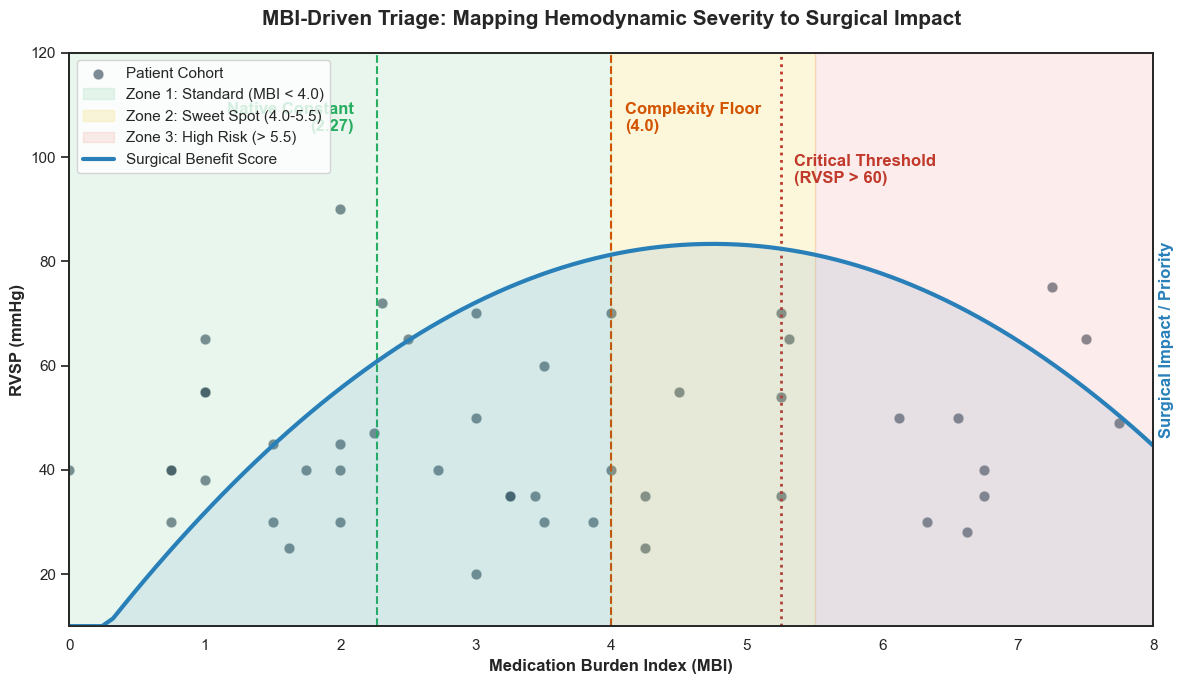
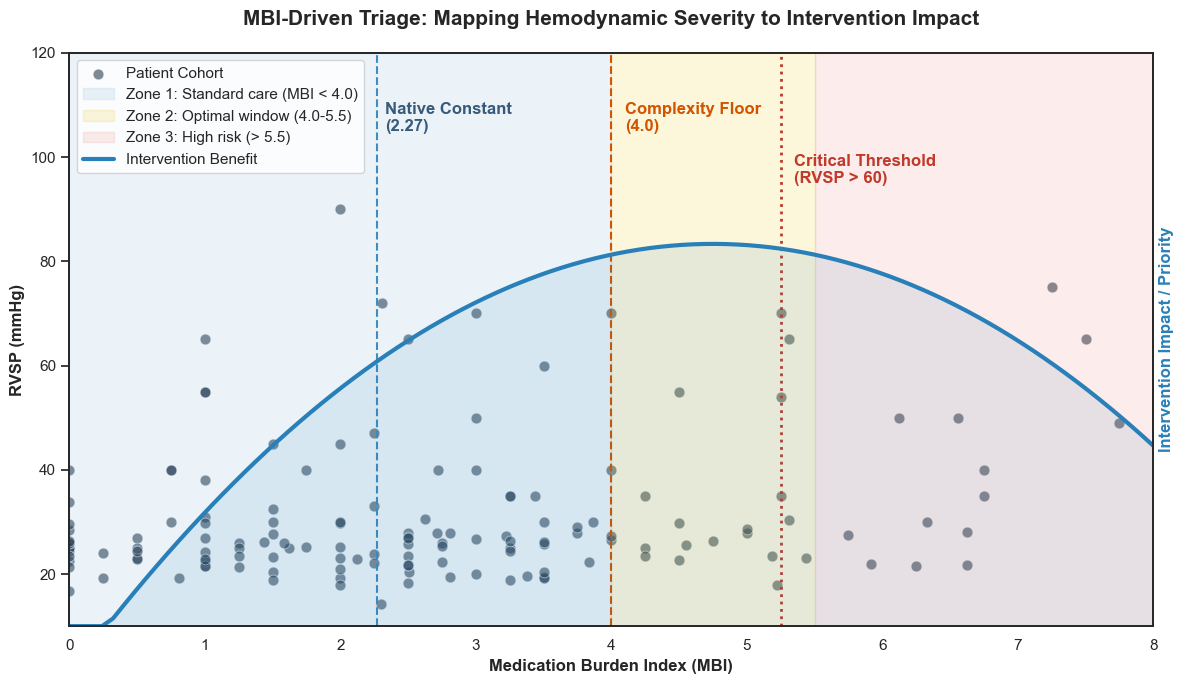
Restructure of the MBI page

diff --git a/_pages/es/projects/mbi.md b/_pages/es/projects/mbi.md
@@ -14,11 +14,14 @@ seo:
   image: "/assets/images/mbi_triage.png"
 # Sections
 approach:
-  - title: "La Arquitectura: <code>ClinicalConfig</code>"
-  - excerpt: "Desarrollé un motor analítico en Python que traduce listas de medicación fragmentadas en un índice de carga farmacológica (MBI). No es solo código; es un diccionario médico digital que mapea dosis máximas y pesos clínicos para predecir la gravedad hemodinámica antes de realizar un ecocardiograma."
+  - title: "Estructura del proyecto"
+  - excerpt: "El pipeline se divide en tres etapas modulares y listas para producción con el fin de preservar un estricto linaje de datos y reproducibilidad:"
 results:
   - title: "El Factor Impacto: Precisión Predictiva"
   - excerpt: "El modelo validó que un MBI > 5.25 identifica hipertensión pulmonar crítica con un 85% de precisión. Esta herramienta permite un 'triaje de recepción', priorizando a los pacientes con mayor beneficio de intervención y optimizando el recurso más escaso de la misión: el tiempo de los especialistas."
+dashboard:
+  - title: Estructura del dashboard y visualizaciones
+  - excerpt: "Cada componente visual funciona como un filtro interactivo activo, permitiendo a los usuarios realizar exámenes cruzados de subcohortes de forma dinámica con solo hacer clic en segmentos de datos específicos."
 highlights_title: 
   - title: "Análisis de Datos y Visualización"
   - excerpt: "Del procesamiento de crudos a la validación estadística: el proceso completo de la brigada de cardiología 'Project Health for Leon' 2025."
@@ -82,13 +85,6 @@ highlights:
     <strong>Tech Stack:</strong> Object-Oriented Programming (OOP), <code>Pandas</code>, <code>NumPy</code>, <code>Statsmodels</code>, <code>Scikit-learn</code>, <code>Matplotlib/Seaborn</code>
 </div>
 
-<!-- <div style="background-color: #f0f7ff; border-left: 5px solid #003152; padding: 15px; margin: 20px 0; border-radius: 4px;">
-    <h4 style="margin-top: 0; color: #003152;"><i class="fas fa-info-circle"></i> Revisión por Pares</h4>
-    <p style="margin-bottom: 0; font-size: 0.95em;">
-        Actualmente en fase de preparación para publicación en colaboración con especialistas de <strong>UNC Chapel Hill Cardiology</strong>, basada en la cohorte de la misión <strong>Project Health for Leon</strong>.
-    </p>
-</div> -->
-
 <h2>El corazón del análisis: ¿Qué es el 'Medication Burden Index' (MBI)?</h2>
 <p>
   El <strong>MBI</strong> es un índice ponderado que cuantifica la intensidad del tratamiento farmacológico de un paciente. En lugar de solo contar cuántas pastillas toma una persona, el MBI evalúa el "esfuerzo" que el sistema cardiovascular está realizando bajo soporte médico.
@@ -149,7 +145,7 @@ highlights:
 </div>
 
 <h2>El Reto: El "Silencio de los Normales" (Sesgo MNAR)</h2>
-<p>En el caos de una brigada de alto volumen, los datos suelen estar incompletos: si una válvula es normal, el cardiólogo no va a perder su tiempo registrándolo. Esto genera un sesgo de <strong>Missing Not At Random (MNAR)</strong> que invalida cualquier modelo estadístico. Mi primer desafío fue implementar una <strong>Imputación Normal Natural</strong> (ruido gaussiano) para restaurar la distribución fisiológica real de la población ($N=152$).</p>
+<p>En misiones de alto volumen, los datos suelen ser incompletos: los cardiólogos enfocaron la velocidad de ejecución en la patología crítica, dejando los campos para estructuras sanas completamente en blanco. Esto genera un sesgo de <strong>Missing Not At Random (MNAR)</strong> que exhibe una media de $\text{RVSP}$ fuertemente distorsionada de $51.0\text{ mmHg}$, omitiendo por completo el espectro basal saludable.</p>
 
 <hr class="feature-divider">
 
@@ -157,19 +153,19 @@ highlights:
 
 <div class="grid-container">
   <div class="grid-item">
-      <img src="/assets/images/data_management.png" alt="Imagen: Procesamiento de Datos" class="grid-icon">
-      <h3>Procesamiento de Datos</h3>
-      <p>Ejecuta la normalización de dosis diarias (TDD) y la imputación de ruido gaussiano para restaurar la distribución fisiológica real frente al sesgo de datos faltantes.</p>
+      <img src="/assets/images/data_management.png" alt="Icono: Procesamiento de Datos" class="grid-icon">
+      <h3>Extracción & Mitigación de Sesgo</h3>
+      <p>Construcción de un modelo de Imputación Gausiana de 'Normalidad Natural' basado en evidencia utilizando las pautas de la Sociedad Americana de Ecocardiografía para restaurar la verdadera varianza poblacional.</p>
   </div>
   <div class="grid-item">
-      <img src="/assets/images/data_architecture.png" alt="Imagen: Arquitectura Clínica " class="grid-icon">
-      <h3>Arquitectura Clínica</h3>
-      <p>Gobierna la jerarquía de pesos (0.5 a 3.0), priorizando fármacos de alto impacto hemodinámico como diuréticos de asa y vasodilatadores pulmonares.</p>
+      <img src="/assets/images/data_architecture.png" alt="Icono: Arquitectura Clínica" class="grid-icon">
+      <h3>Ingeniería de Esquema 3NF</h3>
+      <p>Diseño y despliegue de una estructura de base de datos MySQL robusta. Las matrices fragmentadas de polifarmacia se normalizaron en un modelo de base de datos estrictamente relacional.</p>
   </div>
   <div class="grid-item">
-      <img src="/assets/images/statistic.png" alt="Imagen: Validación Estadística " class="grid-icon">
-      <h3>Validación Estadística</h3>
-      <p>Genera la lógica de triaje basada en curvas ROC, identificando el punto de corte óptimo ($MBI > 4.0$) para predecir complejidad clínica con precisión.</p>
+      <img src="/assets/images/statistic.png" alt="Icono: Validación Estadística" class="grid-icon">
+      <h3>Mapeo de Residuos OLS</h3>
+      <p>Cálculo de residuos de regresión por Mínimos Cuadrados Ordinarios (OLS) para aislar a los pacientes cuya patología subyacente grave está siendo enmascarada activamente por terapias intensivas.</p>
   </div>
 </div>
 
@@ -199,41 +195,33 @@ highlights:
   </div>
 </div>
 
-<h3 style="text-align: center; margin-top: 3rem;">Protocolo de Decisión: Tabla de referencia para triage</h3>
-<p style="text-align: center; color: #666;">Validación operativa para el personal de recepción:</p>
+<hr class="feature-divider">
 
-<div class="table-container">
-  <table class="mbi-table" style="width: 85%; border: 1px solid #ddd;">
-    <thead>
-      <tr style="background-color: #003152; color: white;">
-        <th style="padding: 15px; border: 1px solid #ddd;">Rango MBI</th>
-        <th style="padding: 15px; border: 1px solid #ddd;">Zona de Triaje</th>
-        <th style="padding: 15px; border: 1px solid #ddd;">Interpretación Clínica</th>
-      </tr>
-    </thead>
-    <tbody>
-      <tr style="background-color: #e8f6ee;">
-        <td style="padding: 12px; border: 1px solid #ddd; text-align: center;">&lt; 2.27</td>
-        <td style="padding: 12px; border: 1px solid #ddd; text-align: center;">Estándar</td>
-        <td style="padding: 12px; border: 1px solid #ddd; text-align: left;">Cercano al promedio de la cohorte. Probablemente compensado.</td>
-      </tr>
-      <tr style="background-color: #fcf6db;">
-        <td style="padding: 12px; border: 1px solid #ddd; text-align: center;"><strong>4.0 – 5.25</strong></td>
-        <td style="padding: 12px; border: 1px solid #ddd; text-align: center;"><strong>Complejo</strong></td>
-        <td style="padding: 12px; border: 1px solid #ddd; text-align: left;"><strong>Área óptima de intervención:</strong> Alta probabilidad de complejidad.</td>
-      </tr>
-      <tr style="background-color: #fceceb;">
-        <td style="padding: 12px; border: 1px solid #ddd; text-align: center;">5.25 – 5.5</td>
-        <td style="padding: 12px; border: 1px solid #ddd; text-align: center;">Crítico</td>
-        <td style="padding: 12px; border: 1px solid #ddd; text-align: left;">85% de Precisión para PH Crítica (RVSP &gt; 60 mmHg).</td>
-      </tr>
-      <tr style="background-color: #fceceb;">
-        <td style="padding: 12px; border: 1px solid #ddd; text-align: center;">&gt; 5.5</td>
-        <td style="padding: 12px; border: 1px solid #ddd; text-align: center;">¿Paliativo?</td>
-        <td style="padding: 12px; border: 1px solid #ddd; text-align: left;">Agotamiento farmacológico: Riesgo elevado de intervención futil.</td>
-      </tr>
-    </tbody>
-  </table>
+{% include feature_row id="dashboard" type="center" %}
+
+<div class="mbi-main-plot" style="margin: 3rem 0; text-align: center;">
+  <img src="/assets/images/mbi_dashboard.png" alt="MBI Distribution and Triage Zones" style="width: 45%; max-width: 900px; border-radius: 12px; box-shadow: 0 10px 30px rgba(0,0,0,0.1);">
+</div>
+
+<div class="project-grid">
+  <div class="card">
+    <h3>Distribución de la Cohorte</h3>
+    <span><b>Registro de Distribución de Edad:</b> Un histograma continuo que detalla la composición por edad.</span>
+    <br>
+    <span><b>División por Género (Gráfico de Dona):</b> Permite una auditoría rápida de las variaciones clínicas basadas en el género a través de los grupos de enfermedades.</span>
+  </div>
+  <div class="card">
+    <h3>Encrucijada Patológica</h3>
+    <span><b>Prevalencia de Enfermedades:</b> Mapea las indicaciones clínicas primarias que impulsan la presentación del paciente, completamente codificadas por colores según las Zonas de Triaje de MBI.</span>
+    <br>
+    <span><b>Composición del Índice de Carga de Medicamentos:</b> Deconstruye el MBI a través de distintos grupos de medicamentos.</span>
+  </div>
+  <div class="card">
+    <h3>Tarjetas de KPI de Promedio</h3>
+    <span><b>Índice de Carga de Medicamentos:</b> Proporciona una lectura instantánea de la huella operativa estándar de polifarmacia.</span>
+    <br>
+    <span><b>Presión Sistólica del Ventrículo Derecho (RVSP):</b> Rastrea la línea de base móvil para proporcionar una métrica sin máscara del rendimiento global del corazón derecho.</span>
+  </div>
 </div>
 
 <div class="pull-quote">
@@ -245,7 +233,7 @@ highlights:
 {% include gallery id="highlights" %}
 
 <div class="see-more-button">
-  <a href="https://github.com/enrodri/phl_2025/blob/main/phl_2025.ipynb" class="btn btn--primary">Ver Cuaderno Jupyter Completo</a>
+  <a href="https://github.com/enaromd/Cardio-MBI-Triage-Engine" class="btn btn--primary">Ver repository en GitHub</a>
 </div>
 
 <div class="cta">

diff --git a/_pages/en/projects/mbi.md b/_pages/en/projects/mbi.md
@@ -14,11 +14,14 @@ seo:
   image: "/assets/images/mbi_triage.png"
 # Sections
 approach:
-  - title: "The Architecture: <code>ClinicalConfig</code>"
-  - excerpt: "I developed an analytical engine in Python that translates fragmented medication lists into a Medication Burden Index (MBI). It’s not just code; it’s a digital medical dictionary mapping maximum doses and clinical weights to predict hemodynamic severity before an echocardiogram is even performed."
+  - title: "Project structure"
+  - excerpt: "The pipeline is split into three modular, production-ready stages to preserve strict data lineage and reproducibility:"
 results:
   - title: "The Impact Factor: Predictive Precision"
   - excerpt: "The model validated that an MBI > 5.25 identifies critical pulmonary hypertension with 85% accuracy. This tool enables 'intake triage,' prioritizing patients who would benefit most from intervention and optimizing the mission's scarcest resource: the specialists' time."
+dashboard:
+  - title: Dashboard structure and visualizations
+  - excerpt: "Every visual component functions as an active interactive filter, allowing users to cross-examine sub-cohorts dynamically by simply clicking on specific data segments."
 highlights_title: 
   - title: "Data Analysis and Visualization"
   - excerpt: "From raw data processing to statistical validation: the end-to-end workflow for the 2025 'Project Health for Leon' cardiology mission."
@@ -82,13 +85,6 @@ highlights:
     <strong>Tech Stack:</strong> Object-Oriented Programming (OOP), <code>Pandas</code>, <code>NumPy</code>, <code>Statsmodels</code>, <code>Scikit-learn</code>, <code>Matplotlib/Seaborn</code>
 </div>
 
-<!-- <div style="background-color: #f0f7ff; border-left: 5px solid #003152; padding: 15px; margin: 20px 0; border-radius: 4px;">
-    <h4 style="margin-top: 0; color: #003152;"><i class="fas fa-info-circle"></i> Peer-Review Status</h4>
-    <p style="margin-bottom: 0; font-size: 0.95em;">
-        Currently undergoing preparation for submission in collaboration with specialists from <strong>UNC Chapel Hill Cardiology</strong>, based on the <strong>Project Health for Leon</strong> mission cohort.
-    </p>
-</div> -->
-
 <h2>The Core of the Analysis: What is the 'Medication Burden Index' (MBI)?</h2>
 <p>
   The <strong>MBI</strong> is a weighted index that quantifies the intensity of a patient's pharmacological treatment. Rather than simply counting pills, the MBI evaluates the "effort" the cardiovascular system is making under medical support.
@@ -149,7 +145,7 @@ highlights:
 </div>
 
 <h2>The Challenge: The "Silence of the Normals" (MNAR Bias)</h2>
-<p>In high-volume missions, data is often incomplete: if a heart valve is normal, the cardiologist may not record it. This creates a <strong>Missing Not At Random (MNAR)</strong> bias that invalidates standard statistical models. My primary challenge was implementing a <strong>Natural Normal Imputation</strong> (Gaussian noise) to restore the real physiological distribution of the population ($N=152$).</p>
+<p>In high-volume missions, data is often incomplete: cardiologists focused execution speed on critical pathology, leaving fields for healthy structures entirely blank. This creates a <strong>Missing Not At Random (MNAR)</strong> bias that exhibits a heavily distorted mean $\text{RVSP}$ of $51.0\text{ mmHg}$, omitting the healthy baseline spectrum completely.</p>
 
 <hr class="feature-divider">
 
@@ -158,18 +154,18 @@ highlights:
 <div class="grid-container">
   <div class="grid-item">
       <img src="/assets/images/data_management.png" alt="Icon: Data Processing" class="grid-icon">
-      <h3>Data Processing</h3>
-      <p>Executes Total Daily Dose (TDD) normalization and Gaussian noise imputation to restore real physiological distribution against missing data bias.</p>
+      <h3>Extraction & Bias Mitigation</h3>
+      <p>Built an evidence-based Gaussian 'Natural Normal' Imputation model using American Society of Echocardiography guidelines to restore true population variance.</p>
   </div>
   <div class="grid-item">
       <img src="/assets/images/data_architecture.png" alt="Icon: Clinical Architecture" class="grid-icon">
-      <h3>Clinical Architecture</h3>
-      <p>Governs the weight hierarchy (0.5 to 3.0), prioritizing drugs with high hemodynamic impact like loop diuretics and pulmonary vasodilators.</p>
+      <h3>3NF Schema Engineering</h3>
+      <p>Engineered and deployed a robust MySQL database structure. Fragmented polypharmacy arrays were normalized into a strict, relational database model.</p>
   </div>
   <div class="grid-item">
       <img src="/assets/images/statistic.png" alt="Icon: Statistical Validation" class="grid-icon">
-      <h3>Statistical Validation</h3>
-      <p>Generates triage logic based on ROC curves, identifying the optimal cutoff point ($MBI > 4.0$) to predict clinical complexity with precision.</p>
+      <h3>OLS residual mapping</h3>
+      <p>Calculated Ordinary Least Squares (OLS) regression residuals to isolate patients whose severe underlying disease is actively masked by intensive therapies.</p>
   </div>
 </div>
 
@@ -199,41 +195,33 @@ highlights:
   </div>
 </div>
 
-<h3 style="text-align: center; margin-top: 3rem;">Decision Protocol: Triage Reference Table</h3>
-<p style="text-align: center; color: #666;">Operational validation for intake staff:</p>
+<hr class="feature-divider">
 
-<div class="table-container">
-  <table class="mbi-table" style="width: 85%; border: 1px solid #ddd;">
-    <thead>
-      <tr style="background-color: #003152; color: white;">
-        <th style="padding: 15px; border: 1px solid #ddd;">MBI Range</th>
-        <th style="padding: 15px; border: 1px solid #ddd;">Triage Zone</th>
-        <th style="padding: 15px; border: 1px solid #ddd;">Clinical Interpretation</th>
-      </tr>
-    </thead>
-    <tbody>
-      <tr style="background-color: #e8f6ee;">
-        <td style="padding: 12px; border: 1px solid #ddd; text-align: center;">&lt; 2.27</td>
-        <td style="padding: 12px; border: 1px solid #ddd; text-align: center;">Standard</td>
-        <td style="padding: 12px; border: 1px solid #ddd; text-align: left;">Close to cohort average. Likely compensated.</td>
-      </tr>
-      <tr style="background-color: #fcf6db;">
-        <td style="padding: 12px; border: 1px solid #ddd; text-align: center;"><strong>4.0 – 5.25</strong></td>
-        <td style="padding: 12px; border: 1px solid #ddd; text-align: center;"><strong>Complex</strong></td>
-        <td style="padding: 12px; border: 1px solid #ddd; text-align: left;"><strong>Optimal intervention area:</strong> High probability of complexity.</td>
-      </tr>
-      <tr style="background-color: #fceceb;">
-        <td style="padding: 12px; border: 1px solid #ddd; text-align: center;">5.25 – 5.5</td>
-        <td style="padding: 12px; border: 1px solid #ddd; text-align: center;">Critical</td>
-        <td style="padding: 12px; border: 1px solid #ddd; text-align: left;">85% Precision for Critical PH (RVSP &gt; 60 mmHg).</td>
-      </tr>
-      <tr style="background-color: #fceceb;">
-        <td style="padding: 12px; border: 1px solid #ddd; text-align: center;">&gt; 5.5</td>
-        <td style="padding: 12px; border: 1px solid #ddd; text-align: center;">Palliative?</td>
-        <td style="padding: 12px; border: 1px solid #ddd; text-align: left;">Pharmacological exhaustion: Elevated risk of futile intervention.</td>
-      </tr>
-    </tbody>
-  </table>
+{% include feature_row id="dashboard" type="center" %}
+
+<div class="mbi-main-plot" style="margin: 3rem 0; text-align: center;">
+  <img src="/assets/images/mbi_dashboard.png" alt="MBI Distribution and Triage Zones" style="width: 45%; max-width: 900px; border-radius: 12px; box-shadow: 0 10px 30px rgba(0,0,0,0.1);">
+</div>
+
+<div class="project-grid">
+  <div class="card">
+    <h3>Cohort Distribution</h3>
+    <span><b>Age Distribution Registry:</b> A continuous histogram detailing the age composition.</span>
+    <br>
+    <span><b>Gender Split (Donut Chart):</b> Enables rapid auditing of gender-based clinical variations across disease groups.</span>
+  </div>
+  <div class="card">
+    <h3>Pathological Crossroads</h3>
+    <span><b>Disease Prevalence:</b> Maps the primary clinical indications driving patient presentation, fully color-coded by MBI Triage Zones.</span>
+    <br>
+    <span><b>Medication Burden Index Composition:</b> Deconstructs the MBI across distinct medication groups.</span>
+  </div>
+  <div class="card">
+    <h3>Average KPI cards</h3>
+    <span><b>Medication Burden Index:</b> Provides an instant read on the standard operational polypharmacy footprint.</span>
+    <br>
+    <span><b>Right Ventricular Systolic Pressure (RVSP):</b> Tracks the running baseline to provide an un-masked metric of global right-heart performance.</span>
+  </div>
 </div>
 
 <div class="pull-quote">
@@ -245,7 +233,7 @@ highlights:
 {% include gallery id="highlights" %}
 
 <div class="see-more-button">
-  <a href="https://github.com/enrodri/phl_2025/blob/main/phl_2025.ipynb" class="btn btn--primary">View Full Jupyter Notebook</a>
+  <a href="https://github.com/enaromd/Cardio-MBI-Triage-Engine" class="btn btn--primary">View GitHub repository</a>
 </div>
 
 <div class="cta">